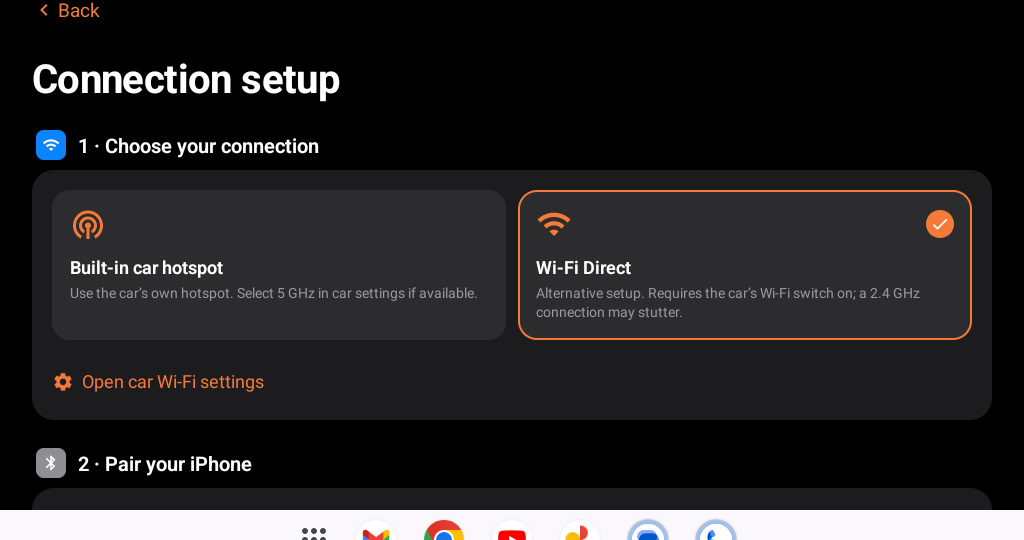
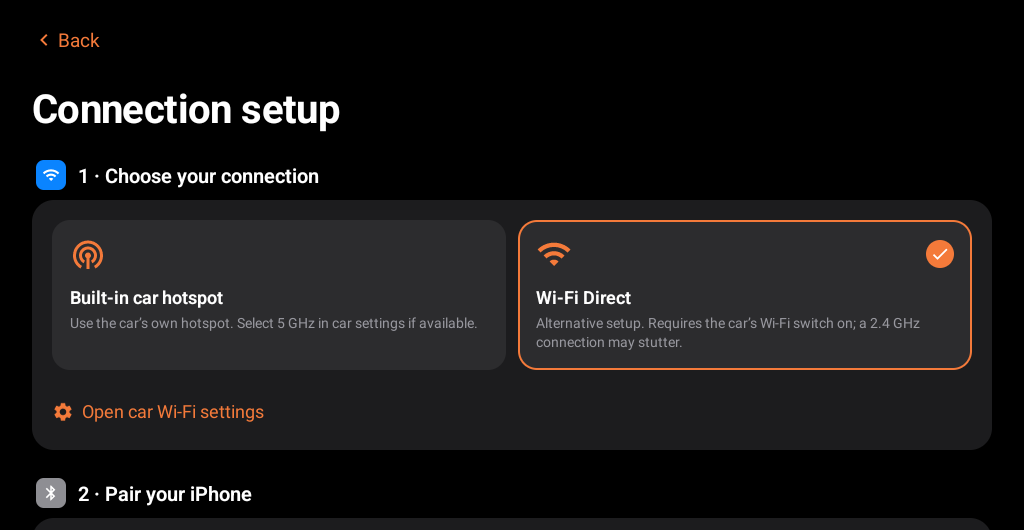
Cut the website down to one short page
Keep the name, a one-line description, the download button, one
screenshot, the compatible cars and three install steps. Drop the
feature cards, extra copy, second screenshot and card styling, and crop
the emulator taskbar off the screenshot.

diff --git a/site/index.html b/site/index.html
@@ -3,88 +3,46 @@
 <head>
 <meta charset="utf-8">
 <meta name="viewport" content="width=device-width,initial-scale=1">
-<title>LoopLink · CarPlay for Android car panels</title>
-<meta name="description" content="LoopLink brings wired and wireless Apple CarPlay to the Android head unit in your car. Works on generic Android panels fitted in the Suzuki Swift, Toyota Corolla Altis, Honda City and more.">
+<title>LoopLink</title>
+<meta name="description" content="Wired and wireless CarPlay for Android car head units.">
 <meta name="theme-color" content="#000000">
 <link rel="icon" href="assets/icon.svg" type="image/svg+xml">
 <link rel="stylesheet" href="assets/site.css">
-<meta property="og:title" content="LoopLink · CarPlay for Android car panels">
-<meta property="og:description" content="Wired and wireless CarPlay on the Android panel already in your car. No dongle needed.">
+<meta property="og:title" content="LoopLink">
+<meta property="og:description" content="Wired and wireless CarPlay for Android car head units.">
 <meta property="og:image" content="https://umarz317.github.io/LoopLink/assets/connection.png">
-<meta property="og:type" content="website">
 </head>
 <body>
-<header class="bar">
-  <a class="brand" href="./"><img src="assets/icon.svg" width="36" height="36" alt=""><span>LoopLink</span></a>
-  <nav aria-label="Sections">
-    <a href="#compatibility">Compatibility</a>
-    <a href="#install">Install</a>
-    <a href="https://github.com/umarz317/LoopLink">GitHub</a>
-  </nav>
-</header>
-
 <main>
-  <section class="hero">
-    <p class="eyebrow">Free and open source · Android 9+</p>
-    <h1>CarPlay on the Android panel already in your car.</h1>
-    <p class="lead">LoopLink turns your Android head unit into wired or wireless Apple CarPlay. Maps, music, calls and Siri from your iPhone, with no dongle and no extra box.</p>
-    <div class="actions">
-      <a class="button" href="https://github.com/umarz317/LoopLink/releases/latest">Download APK</a>
-      <a class="button ghost" href="#install">How to install</a>
-    </div>
-  </section>
+  <header>
+    <img src="assets/icon.svg" width="48" height="48" alt="">
+    <h1>LoopLink</h1>
+    <p>CarPlay for Android car head units. Wired or wireless.</p>
+    <a class="button" href="https://github.com/umarz317/LoopLink/releases/latest">Download APK</a>
+  </header>
 
-  <section class="screens" aria-label="Screenshots">
-    <figure><img src="assets/connection.png" width="1024" height="540" alt="LoopLink connection setup with car hotspot and Wi-Fi Direct choices"><figcaption>Pick wireless with the car hotspot or Wi-Fi Direct.</figcaption></figure>
-    <figure><img src="assets/settings.png" width="1024" height="540" alt="LoopLink settings with iPhone and automatic connection options"><figcaption>Simple settings, made for a glance.</figcaption></figure>
-  </section>
+  <img class="shot" src="assets/connection.png" width="1024" height="530" alt="LoopLink connection setup screen">
 
-  <section id="compatibility">
-    <h2>Compatibility</h2>
-    <p class="section-lead">LoopLink runs on the panel, not the car. If your car has an Android head unit, it should work. These are popular cars in Pakistan where owners fit these panels:</p>
-    <ul class="cars">
-      <li><strong>Suzuki Swift</strong><span>Aftermarket Android panels</span></li>
-      <li><strong>Toyota Corolla Altis</strong><span>Aftermarket Android panels</span></li>
-      <li><strong>Honda City</strong><span>Aftermarket Android panels</span></li>
-      <li><strong>Generic Android panels</strong><span>9″ and 10″ head units in any car</span></li>
-    </ul>
-    <div class="needs">
-      <h3>Your panel needs</h3>
-      <ul>
-        <li>Android 9 or newer, with APK installs allowed</li>
-        <li>Bluetooth and Wi-Fi for wireless CarPlay</li>
-        <li>Android 10 or newer for Wi-Fi Direct; otherwise use the car hotspot or USB</li>
-        <li>A USB data port for wired CarPlay</li>
-      </ul>
-      <p class="fine">Panels differ in hardware and firmware, so some may not work. Car names are listed only to describe where these panels are fitted; LoopLink is not affiliated with Suzuki, Toyota or Honda.</p>
-    </div>
-  </section>
+  <h2>Works with</h2>
+  <ul>
+    <li>Suzuki Swift</li>
+    <li>Toyota Corolla Altis</li>
+    <li>Honda City</li>
+    <li>Generic Android panels in other cars</li>
+  </ul>
+  <p class="muted">Pakistani models with an aftermarket Android panel. The panel needs Android 9 or newer, Bluetooth and Wi-Fi. Wi-Fi Direct needs Android 10.</p>
 
-  <section id="install">
-    <h2>Install in five steps</h2>
-    <ol class="steps">
-      <li><strong>Download</strong>Get the APK on the panel's browser, or copy it to a USB drive.</li>
-      <li><strong>Install</strong>Open the APK on the panel and allow installs from this source.</li>
-      <li><strong>Pair</strong>Pair your iPhone with the car's Bluetooth.</li>
-      <li><strong>Set up</strong>Open LoopLink, go to Settings → Connection setup and pick car hotspot or Wi-Fi Direct.</li>
-      <li><strong>Connect</strong>Tap Connect phone and allow CarPlay on your iPhone. Prefer a cable? Tap Connect with USB.</li>
-    </ol>
-  </section>
+  <h2>Install</h2>
+  <ol>
+    <li>Install the APK on the head unit.</li>
+    <li>Pair your iPhone with the car's Bluetooth.</li>
+    <li>Open LoopLink and tap Connect phone, or Connect with USB.</li>
+  </ol>
 
-  <section class="features">
-    <h2>Made for the road</h2>
-    <ul>
-      <li><strong>Wired and wireless</strong>USB, car hotspot or Wi-Fi Direct.</li>
-      <li><strong>Big, simple screens</strong>Large tiles that fit short car displays.</li>
-      <li><strong>Siri on the volume knob</strong>Siri replies follow your media volume.</li>
-      <li><strong>Five languages</strong>English, Chinese, Arabic, Russian and Spanish.</li>
-    </ul>
-  </section>
+  <footer>
+    <p>Not affiliated with Apple, Suzuki, Toyota or Honda. CarPlay is a trademark of Apple Inc. Based on <a href="https://github.com/shihabal3amri/DiPlay">DiPlay</a> and <a href="https://github.com/shilapi/xcertplay">xcertplay</a>.</p>
+    <p><a href="https://github.com/umarz317/LoopLink">Source</a> · <a href="https://github.com/umarz317/LoopLink/issues">Report a problem</a></p>
+  </footer>
 </main>
-
-<footer>
-  <p>LoopLink is not an Apple-certified product. CarPlay and iPhone are trademarks of Apple Inc.; no affiliation or endorsement is implied. Based on <a href="https://github.com/shihabal3amri/DiPlay">DiPlay</a> and <a href="https://github.com/shilapi/xcertplay">xcertplay</a>.</p>
-  <nav><a href="https://github.com/umarz317/LoopLink">Source code</a><a href="https://github.com/umarz317/LoopLink/blob/main/docs/PRIVACY.md">Privacy</a><a href="https://github.com/umarz317/LoopLink/issues">Report a problem</a></nav>
-</footer>
 </body>
 </html>

diff --git a/site/assets/site.css b/site/assets/site.css
@@ -1,37 +1,13 @@
-:root{--bg:#000;--surface:#1c1c1e;--fill:#2c2c2e;--line:#38383a;--text:#fff;--muted:#98989f;--accent:#f47a3a;color-scheme:dark;font-family:-apple-system,BlinkMacSystemFont,"SF Pro Text","Segoe UI",Roboto,Arial,sans-serif}
-*{box-sizing:border-box}html{scroll-behavior:smooth}
-body{margin:0;background:var(--bg);color:var(--text);line-height:1.55}
-a{color:var(--accent);text-underline-offset:3px}a:focus-visible{outline:3px solid var(--accent);outline-offset:4px;border-radius:6px}
-.bar{position:sticky;top:0;z-index:1;display:flex;align-items:center;justify-content:space-between;gap:16px;padding:12px 24px;background:rgba(0,0,0,.72);backdrop-filter:saturate(180%) blur(20px);-webkit-backdrop-filter:saturate(180%) blur(20px);border-bottom:1px solid var(--line)}
-.brand{display:flex;align-items:center;gap:10px;color:var(--text);text-decoration:none;font-weight:700;font-size:20px}
-.bar nav{display:flex;gap:4px;flex-wrap:wrap}.bar nav a{color:var(--muted);text-decoration:none;padding:10px 12px;border-radius:10px;font-size:15px}.bar nav a:hover{color:var(--text);background:var(--fill)}
-main{max-width:1080px;margin:auto;padding:0 24px}
-section{padding:56px 0}
-.hero{padding:88px 0 40px;max-width:780px}
-.eyebrow{color:var(--accent);font-weight:600;font-size:14px;letter-spacing:.04em;margin:0 0 16px}
-h1{font-size:clamp(36px,6vw,64px);line-height:1.05;letter-spacing:-.03em;margin:0 0 20px}
-h2{font-size:clamp(28px,4vw,40px);letter-spacing:-.02em;line-height:1.1;margin:0 0 16px}
-h3{font-size:20px;margin:0 0 12px}
-.lead{font-size:20px;color:var(--muted);margin:0 0 32px;max-width:640px}
-.section-lead{font-size:18px;color:var(--muted);max-width:720px;margin:0 0 28px}
-.actions{display:flex;gap:12px;flex-wrap:wrap}
-.button{display:inline-flex;align-items:center;min-height:52px;padding:0 24px;border-radius:14px;background:var(--accent);color:#fff;font-weight:600;font-size:17px;text-decoration:none}
-.button:hover{filter:brightness(1.08)}.button.ghost{background:var(--fill);color:var(--text)}
-.screens{display:grid;grid-template-columns:1fr 1fr;gap:20px;padding-top:24px}
-figure{margin:0}figure img{display:block;width:100%;height:auto;border-radius:18px;border:1px solid var(--line)}
-figcaption{color:var(--muted);font-size:15px;padding:12px 4px 0}
-.cars{list-style:none;padding:0;margin:0 0 20px;display:grid;grid-template-columns:repeat(4,1fr);gap:12px}
-.cars li,.needs,.steps li,.features li{background:var(--surface);border-radius:18px;padding:20px}
-.cars strong,.steps strong,.features strong{display:block;font-size:18px;margin-bottom:4px}
-.cars span,.steps li,.features li{color:var(--muted);font-size:15px}
-.cars strong,.steps strong,.features strong{color:var(--text)}
-.needs ul{margin:0;padding-inline-start:20px;color:var(--muted)}.needs li{margin:6px 0}
-.fine{color:var(--muted);font-size:13px;margin:16px 0 0}
-.steps{list-style:none;counter-reset:step;padding:0;margin:0;display:grid;grid-template-columns:repeat(5,1fr);gap:12px}
-.steps li{counter-increment:step}.steps li::before{content:counter(step);display:grid;place-items:center;width:32px;height:32px;margin-bottom:12px;border-radius:50%;background:var(--accent);color:#fff;font-weight:700}
-.features ul{list-style:none;padding:0;margin:0;display:grid;grid-template-columns:repeat(4,1fr);gap:12px}
-footer{max-width:1080px;margin:auto;padding:32px 24px 48px;border-top:1px solid var(--line);color:var(--muted);font-size:13px}
-footer nav{display:flex;gap:20px;flex-wrap:wrap;margin-top:12px}footer a{color:var(--muted)}
-@media(max-width:900px){.cars,.features ul{grid-template-columns:1fr 1fr}.steps{grid-template-columns:1fr}}
-@media(max-width:640px){.screens,.cars,.features ul{grid-template-columns:1fr}.hero{padding-top:48px}.bar{padding:10px 16px}main,footer{padding-left:16px;padding-right:16px}.bar nav a{padding:8px}.bar nav a[href^="https"]{display:none}}
-@media(prefers-reduced-motion:reduce){html{scroll-behavior:auto}}
+:root{color-scheme:dark;font-family:-apple-system,BlinkMacSystemFont,"Segoe UI",Roboto,Arial,sans-serif}
+body{margin:0;background:#000;color:#fff;line-height:1.6}
+main{max-width:680px;margin:auto;padding:56px 20px}
+a{color:#f47a3a}
+header h1{font-size:40px;margin:16px 0 4px;letter-spacing:-.02em}
+header p{color:#98989f;font-size:18px;margin:0 0 24px}
+.button{display:inline-block;background:#f47a3a;color:#fff;font-weight:600;text-decoration:none;padding:14px 22px;border-radius:12px}
+.shot{display:block;width:100%;height:auto;margin:48px 0;border-radius:14px;border:1px solid #38383a}
+h2{font-size:22px;margin:40px 0 8px}
+ul,ol{padding-left:22px}li{margin:4px 0}
+.muted,footer{color:#98989f;font-size:14px}
+footer{margin-top:56px;border-top:1px solid #38383a;padding-top:16px}
+footer a{color:#98989f}
